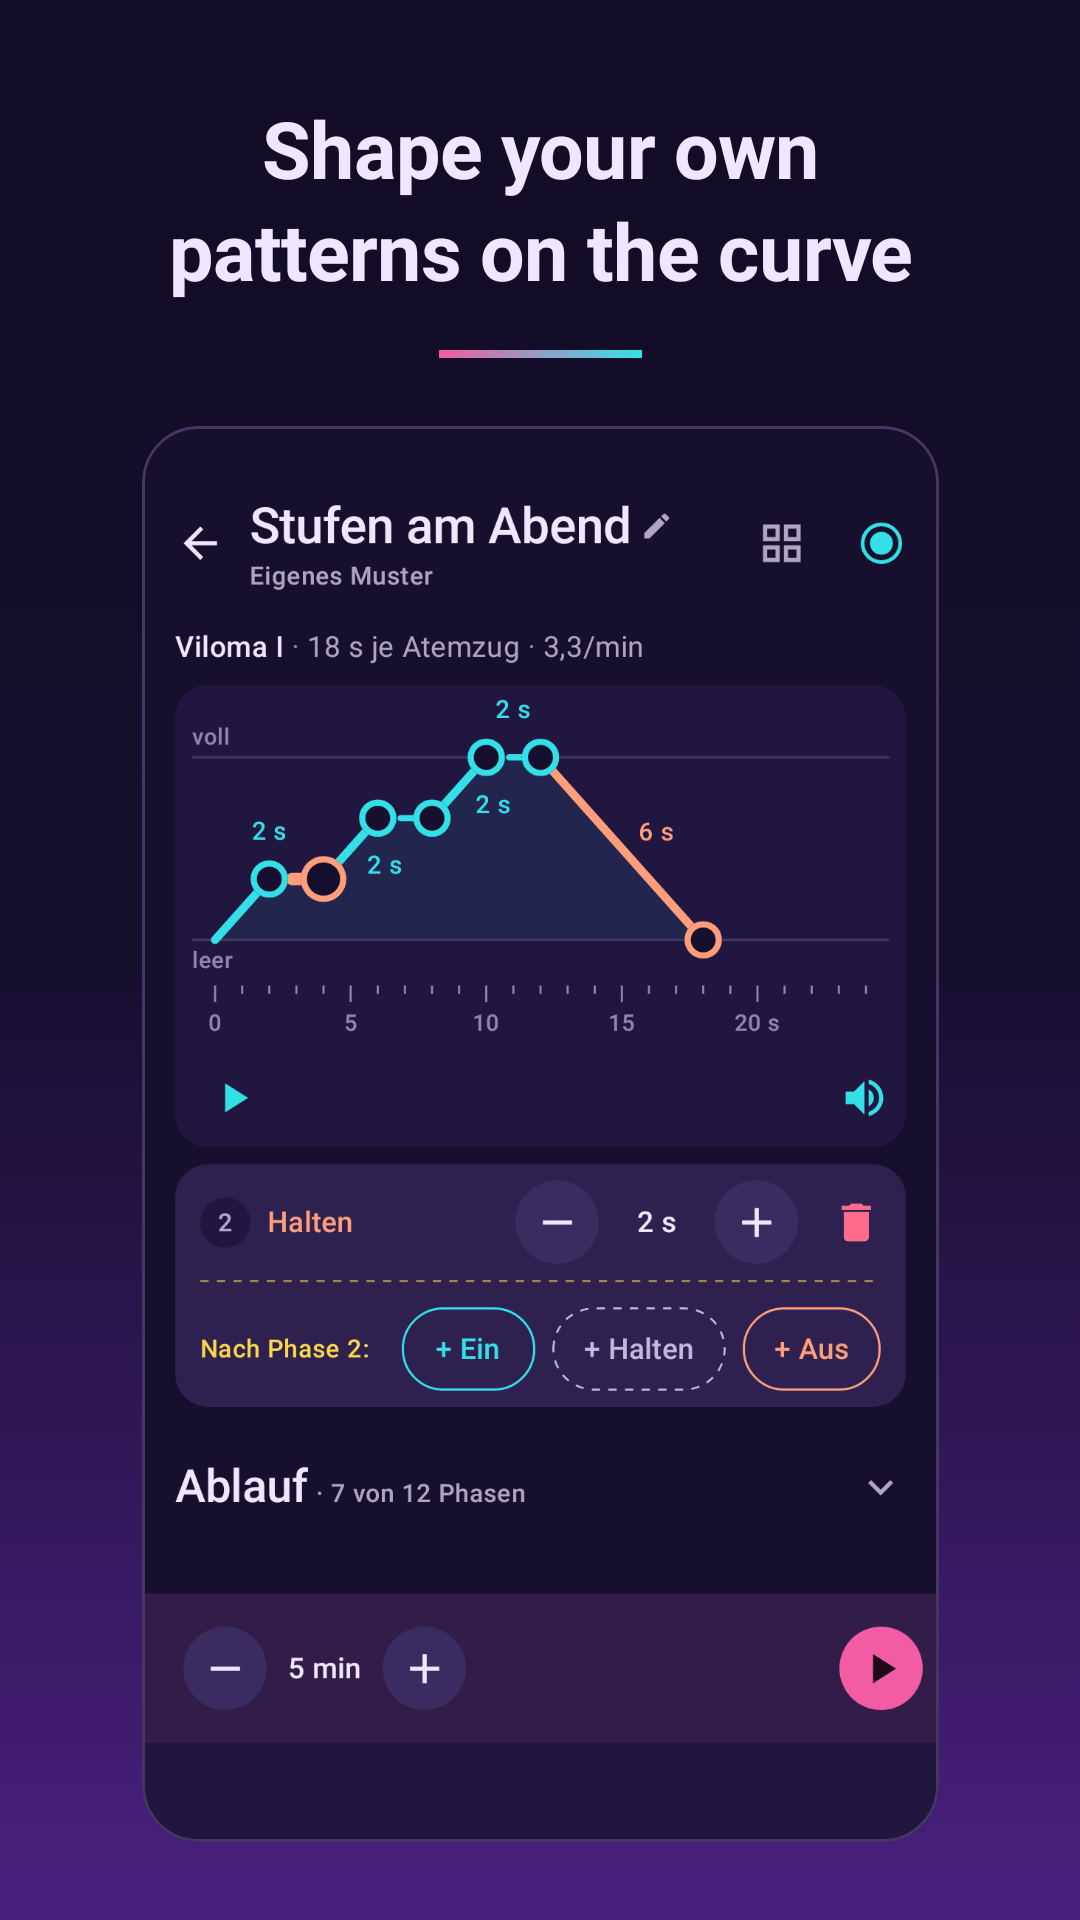
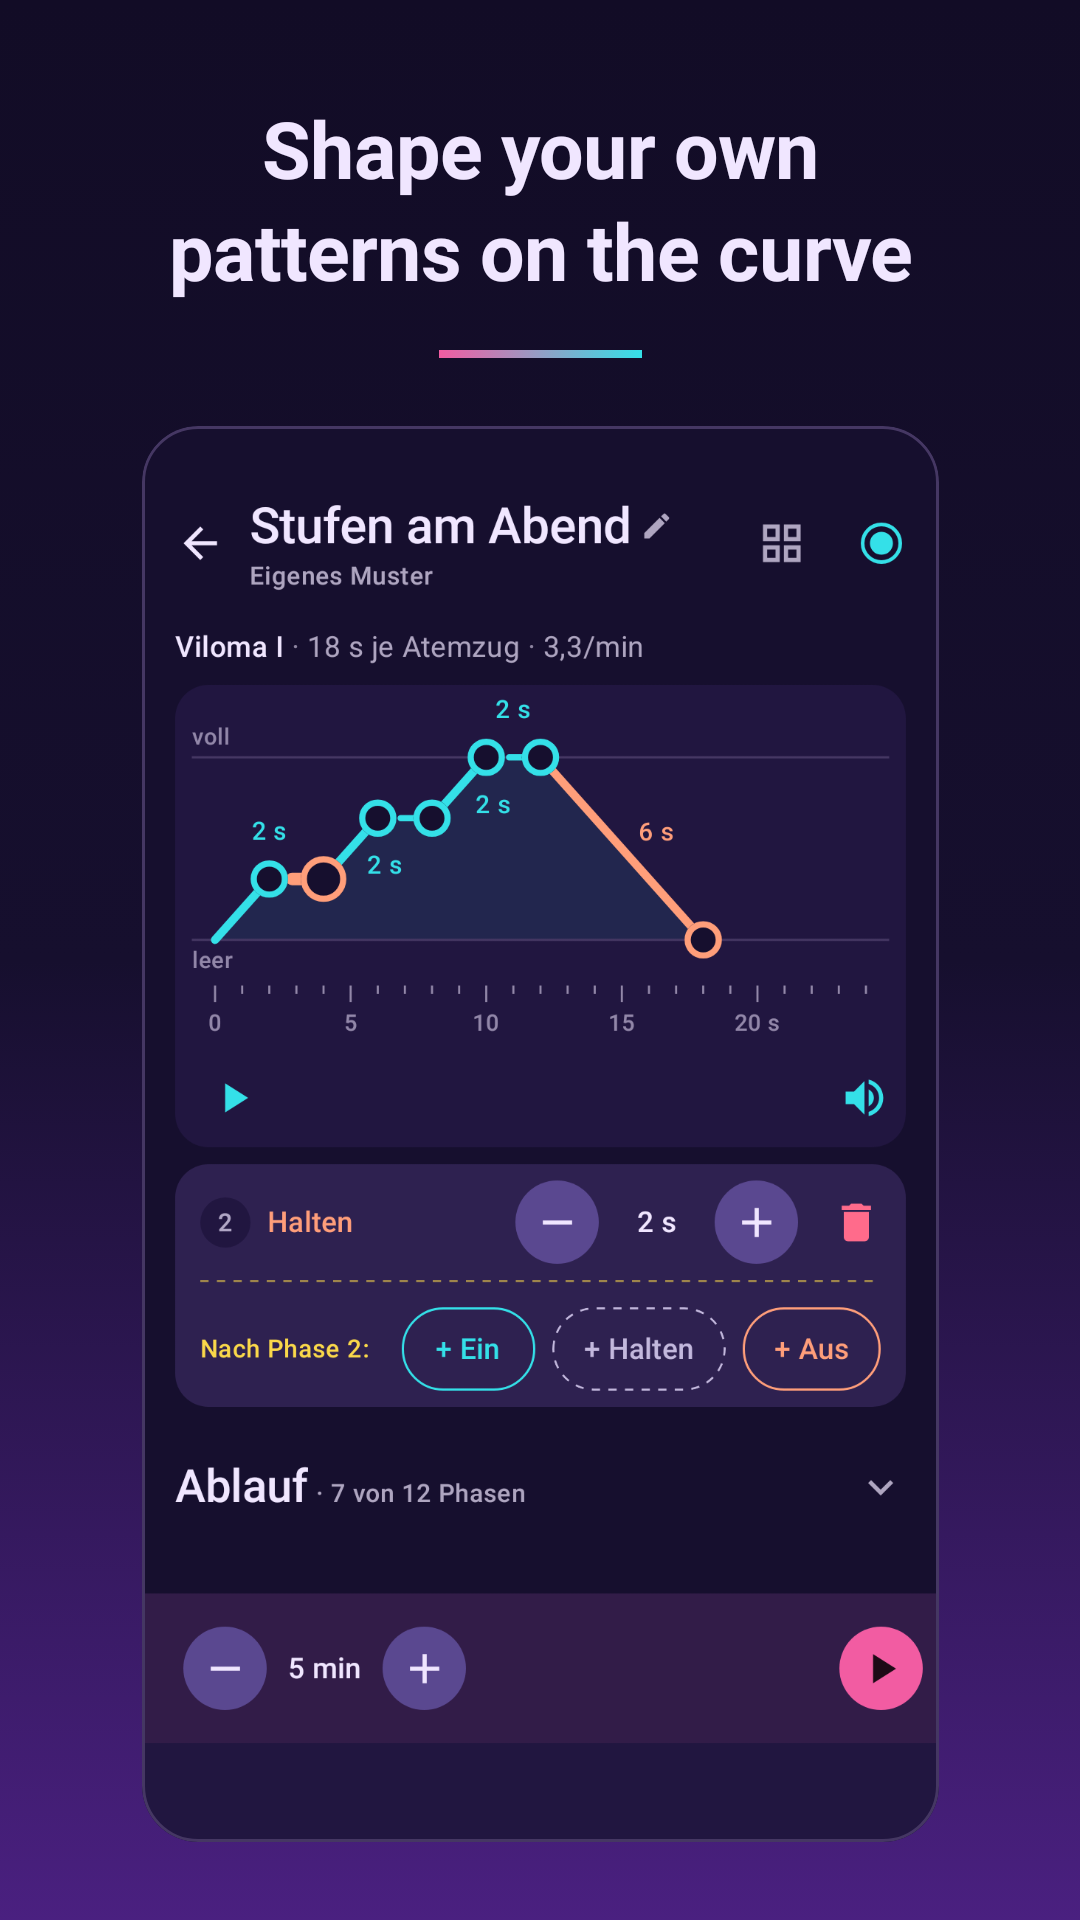
v2.10.0: Muster des Tages mit „Selbst gestalten“, Befinden, Erinnerung, Sicherung, Altlasten abgebaut
Erstes öffentliches Release seit 2.6.0; 2.7 bis 2.9 wurden nicht einzeln
veröffentlicht und gehen hier auf. Neu seitdem: Muster des Tages als
Kopfzeile mit Blatt und „Selbst gestalten“ ab dem Muster von heute, Linie
und „Passende Übungen“ über den Treffern, Befinden danach, lokale
Erinnerung, Sicherung in einer Datei, ruhigere Tabs, Schnellstart.

Dazu der Abbau fast aller Altlasten (Baseline leer), Referenzbilder im CI,
Release-Body-Prüfung, Audio-Fokus nur bei hörbarem Ton mit Wiederholung
nach Anrufen und mehrere Korrekturen aus dem unabhängigen Review.
Store- und README-Bilder zeigen den neuen Stand.

Claude-Session: https://claude.ai/code/session_01B8z44TFz52PCh6ECZFmda6

diff --git a/docs/release-notes/v2.10.0.md b/docs/release-notes/v2.10.0.md
@@ -1,0 +1,15 @@
+Neu in Version 2.10.0 (mit allem aus 2.7 bis 2.9, die nicht einzeln veröffentlicht wurden):
+
+- **Muster des Tages und selbst gestalten:** Im Tab „Atmen“ steht unter den Anlässen „Muster des Tages ›“ mit der Atemkurve, in jedem Zustand an derselben Stelle. Ein Tipp öffnet ein Blatt mit dem Muster von heute (neu generieren, in „Eigene“ speichern) und „Selbst gestalten“: Der Editor startet mit dem Muster von heute, eine andere Vorlage wählst du dort über „Startpunkt“.
+- **Suche klar getrennt:** Eine Linie trennt den Einstieg von der Liste; beim Suchen oder mit einem Anlass heißt sie „Passende Übungen“.
+- **Befinden danach:** Am Ende einer Übung kannst du mit einem Tipp sagen, wie es dir geht: „ruhiger · wie vorher · unruhiger“, nach aktivierenden Übungen „wacher · wie vorher · müder“. Das Wort steht im Logbuch, nur auf deinem Gerät, und wird nie ausgewertet. Abschalten kannst du die Frage in den Einstellungen.
+- **Erinnerung:** Auf Wunsch erinnert die App zu einer Uhrzeit an gewählten Wochentagen an ein paar Atemzüge – lokal, ohne Netz, ohne Druck.
+- **Sicherung:** Muster, Logbuch samt Befinden, „Tut mir gut“ und Einstellungen in einer Datei; beim Einlesen zeigt eine Vorschau, was dazukommt. Dasselbe Tagesmuster von zwei Geräten wird nicht doppelt angelegt.
+- **Eigene:** Verlauf oben, darunter „Eigene Kreationen“ mit „+“ und „Tut mir gut“. „Zuletzt: … ›“ öffnet die zuletzt geübte Übung, die Serie lässt sich ausblenden. Tage ohne Übung sind leere Ringe, geübte Tage kräftiger.
+- **Ruhigere Tabs:** Suchfeld mit Lupe, weiße Abschnittsköpfe, Farbe nur bei Gruppen und Kartenrändern. Die Tab-Leiste hat größere Beschriftungen, der gewählte Tab ist hell hinterlegt.
+- **Ein Zeichen für „zu mir“:** Der Atemkreis ◉ markiert, was dir guttut, und speichert auch Muster in „Eigene“.
+- **Schnellstart:** Ein langer Druck aufs App-Symbol startet die Resonanz-Atmung, die Meditation oder die zuletzt geübte Übung.
+- **Sitzung:** Box-Atmung und andere Muster sagen „Halten voll“ und „Halten leer“. Wim Hof atmet zwischen den Runden aus. Bei einem Anruf oder wenn eine andere App spielt, schweigt der Ton, die Übung läuft weiter; danach kommt er wieder. Andere Musik wird erst mit dem ersten Ton leiser, nicht schon im Countdown.
+- **Barrierefreiheit:** Die Bilanz am Ende wird als „6 Minuten 24 Sekunden“ vorgelesen, der Stimmen-Download wird angesagt, der Fokus bleibt beim Laden, Abbrechen und Löschen an einer sinnvollen Stelle.
+- **Texte:** Die Beschreibungen der Übungen sind kürzer, ohne Sicherheitshinweise oder Studienlage zu verlieren.
+- Programme heißen „zum Nachlesen“, damit klar ist, dass kein getakteter Ablauf folgt.

diff --git a/docs/STORE.md b/docs/STORE.md
@@ -1,6 +1,6 @@
 # Veröffentlichung in Google Play und F-Droid
 
-Stand: 2026-10-24, App-Version 2.9.0 und `main`. Dieses Dokument beschreibt, wie Atemkraft in die Stores kommt: was im Repo vorbereitet sein muss, welche Konten und Formulare nötig sind und in welcher Reihenfolge man vorgeht. Die verbindlichen Regeln (Signatur, Lizenzen, Gesundheitsaussagen) stehen in [SECURITY.md](SECURITY.md), Abschnitte *Build und Signatur*, *Verteilung* und *Gesundheit, Recht und Lizenzen*; die Schritte jedes einzelnen Releases in dessen *Release-Checkliste*. Hier steht der einmalige Weg in die Stores und das, was sich danach je Release ändert.
+Stand: 2026-10-30, App-Version 2.10.0 und `main`. Dieses Dokument beschreibt, wie Atemkraft in die Stores kommt: was im Repo vorbereitet sein muss, welche Konten und Formulare nötig sind und in welcher Reihenfolge man vorgeht. Die verbindlichen Regeln (Signatur, Lizenzen, Gesundheitsaussagen) stehen in [SECURITY.md](SECURITY.md), Abschnitte *Build und Signatur*, *Verteilung* und *Gesundheit, Recht und Lizenzen*; die Schritte jedes einzelnen Releases in dessen *Release-Checkliste*. Hier steht der einmalige Weg in die Stores und das, was sich danach je Release ändert.
 
 Quellen sind die offiziellen Hilfeseiten von Google, F-Droid und IzzyOnDroid (Links im Text, abgerufen am 2026-10-23). Store-Regeln ändern sich; vor jedem Schritt die verlinkte Seite noch einmal lesen. Keine Rechtsberatung.
 
@@ -163,11 +163,11 @@ RepoType: git
 Repo: https://github.com/grenzenloseSchublade/atemkraft.git
 Binaries: https://github.com/grenzenloseSchublade/atemkraft/releases/download/v%v/atemkraft-v%v.apk
 
-# Vor dem Einreichen auf das dann neueste öffentliche Tag setzen (Stand: Kandidat 2.9.0).
+# Vor dem Einreichen auf das dann neueste öffentliche Tag setzen (Stand: Kandidat 2.10.0).
 Builds:
-  - versionName: 2.9.0
-    versionCode: 42
-    commit: v2.9.0
+  - versionName: 2.10.0
+    versionCode: 43
+    commit: v2.10.0
     subdir: app
     gradle:
       - yes
@@ -178,8 +178,8 @@ AllowedAPKSigningKeys: 75022defe65aa24e223f3e79880f09f423456757002ff0b33ba2ae29b
 
 AutoUpdateMode: Version
 UpdateCheckMode: Tags
-CurrentVersion: 2.9.0
-CurrentVersionCode: 42
+CurrentVersion: 2.10.0
+CurrentVersionCode: 43
 ```
 
 Ob *NonFreeNet* für einen optionalen Download von GitHub nötig ist, entscheidet der Prüfer; die TTS-App SherpaTTS trägt es für ihren Download von Hugging Face.

diff --git a/THIRD_PARTY_LICENSES.md b/THIRD_PARTY_LICENSES.md
@@ -2,7 +2,7 @@
 
 Was in der App steckt, was sie auf Wunsch lädt und unter welchen Bedingungen. Gegenstück in der App: *Einstellungen → Über Atemkraft → Lizenzen*.
 
-- **Stand:** 2026-10-24, gilt für App-Version 2.0.2 bis 2.9.0 (`versionCode` 31 bis 40; die Abhängigkeiten sind dazwischen gleich) und `main`. Seit 1.6.0 sind die Laufzeit-Abhängigkeiten aktualisiert (§ 1); das sherpa-onnx-AAR ist dieselbe Datei wie bisher, kommt aber seit 2026-10-24 von JitPack statt aus `app/libs/` (§ 2).
+- **Stand:** 2026-10-30, gilt für App-Version 2.0.2 bis 2.10.0 (`versionCode` 31 bis 40; die Abhängigkeiten sind dazwischen gleich) und `main`. Seit 1.6.0 sind die Laufzeit-Abhängigkeiten aktualisiert (§ 1); das sherpa-onnx-AAR ist dieselbe Datei wie bisher, kommt aber seit 2026-10-24 von JitPack statt aus `app/libs/` (§ 2).
 - **Belege:** Lizenzangaben aus Maven-POMs, `LICENSE`/`COPYING`-Dateien der Upstream-Repos am genannten Tag oder Commit und den Modellkarten der Stimmen. Die Laufzeit-Abhängigkeiten sind am 2026-10-23 mit `./gradlew :app:dependencies --configuration releaseRuntimeClasspath` am Stand 2.0.2 neu erhoben, ihre Lizenzen aus den POMs und die NOTICE-Texte aus den JARs bzw. den Upstream-Repos am Tag der jeweiligen Version übernommen. Der Inhalt der APK ist mit `unzip -l` an Release-Builds von 2.0.2 und 2.5.0 geprüft (2.5.0 am 2026-10-24, vor und nach dem Wechsel auf JitPack; Unterschied nur die nicht mehr mitgelieferte C- und C++-API, § 2), die gebündelten Bibliotheken über die Build-Skripte von sherpa-onnx v1.13.6 (samt der von dort geladenen Bibliotheken) und Zeichenketten in `libsherpa-onnx-jni.so` und `libsherpa-onnx-c-api.so`.
 - **Keine Rechtsberatung.** Die Einordnungen unten geben Lizenztexte und veröffentlichte Auffassungen wieder.
 

diff --git a/docs/STYLEGUIDE.md b/docs/STYLEGUIDE.md
@@ -1,6 +1,6 @@
 # Atemkraft – Styleguide
 
-Normativer Design-, Text- und Code-Leitfaden für Maintainer und Claude: Jede Regel nennt ihre Prüfung. Stand: v2.9.0 und `main`, 2026-10-24. Sicherheit, Datenschutz, Build und Release regelt [SECURITY.md](SECURITY.md); Commit, Push, Release und Arbeitsweise [PROCESS.md](PROCESS.md); die Kurzfassung für Agenten steht in [CLAUDE.md](../CLAUDE.md). Wie ein Feature genau gebaut ist, steht in [docs/spec/](spec/); warum etwas so entschieden wurde, in [DECISIONS.md](DECISIONS.md).
+Normativer Design-, Text- und Code-Leitfaden für Maintainer und Claude: Jede Regel nennt ihre Prüfung. Stand: v2.10.0 und `main`, 2026-10-24. Sicherheit, Datenschutz, Build und Release regelt [SECURITY.md](SECURITY.md); Commit, Push, Release und Arbeitsweise [PROCESS.md](PROCESS.md); die Kurzfassung für Agenten steht in [CLAUDE.md](../CLAUDE.md). Wie ein Feature genau gebaut ist, steht in [docs/spec/](spec/); warum etwas so entschieden wurde, in [DECISIONS.md](DECISIONS.md).
 
 **Inhalt:** [0 Geltung](#geltung) · [1 Leitplanken](#leitplanken) · [2 Farbe](#farbe) · [3 Typografie](#typografie) · [4 Layout](#layout) (4.5 [Anatomie der Bausteine](#anatomie)) · [5 Komponenten](#komponenten) · [6 Muster](#muster) · [7 Icons](#icons) · [8 Bewegung](#bewegung) · [9 Audio und Haptik](#audio) · [10 Barrierefreiheit](#a11y) · [11 Text und Ton](#text) · [12 Code](#code) · [13 Automatische Prüfung](#automatische-pruefung) · [14 Backlog](#backlog) · [Quellen](#quellen)
 

diff --git a/docs/SECURITY.md b/docs/SECURITY.md
@@ -2,7 +2,7 @@
 
 Sicherheits-, Datenschutz-, Lieferketten- und Release-Regeln für Atemkraft (`app.atemkraft`). Zielgruppe: Maintainer und Claude. Gegenstück für Design, Text und Code: [STYLEGUIDE.md](STYLEGUIDE.md).
 
-- **Stand:** 2026-10-24 (v2.9.0 und `main`; statische Sicherheits-Checks seit 2026-10-19 aktiv, `verify-apk` und der Tag-Nachbau `release-verify` seit 2026-10-24).
+- **Stand:** 2026-10-30 (v2.10.0 und `main`; statische Sicherheits-Checks seit 2026-10-19 aktiv, `verify-apk` und der Tag-Nachbau `release-verify` seit 2026-10-24).
 - **Schlüsselwörter:** MUSS / DARF NICHT / SOLL im Sinne von RFC 2119.
 - **Regelformat** (gemeinsam mit STYLEGUIDE): `ID | Stufe | Regel | Warum | Prüfung`. `auto:` nennt Werkzeug und Check (siehe [Automatische Prüfung](#automatische-pruefung)), `manuell:` nennt Review oder Checklisten-Schritt. In der Check-Tabelle stehen die vollen Regel-IDs.
 - **Grundlage:** OWASP MASVS v2.1.0 (L1 + Privacy), Android Security Checklist, Google-Play-Richtlinien, F-Droid Inclusion Policy.

diff --git a/docs/PRIVACY.md b/docs/PRIVACY.md
@@ -2,7 +2,7 @@
 
 Für die Android-App Atemkraft (`app.atemkraft`), gleich über welche Bezugsquelle du sie installierst: GitHub-Releases dieses Repos, Google Play oder F-Droid (siehe [Bezugsquellen](#bezugsquellen)).
 
-- **Stand:** 2026-10-24. Gilt ab Version 2.6.0, geprüft gegen Version 2.9.0 und den Quellcode auf `main` an diesem Tag. Wie sich frühere Versionen unterscheiden, steht im [Anhang](#fruehere-versionen).
+- **Stand:** 2026-10-30. Gilt ab Version 2.6.0, geprüft gegen Version 2.10.0 und den Quellcode auf `main` an diesem Tag. Wie sich frühere Versionen unterscheiden, steht im [Anhang](#fruehere-versionen).
 - **Anbieter:** grenzenloseSchublade, Maintainer von [github.com/grenzenloseSchublade/atemkraft](https://github.com/grenzenloseSchublade/atemkraft). Kontakt siehe [unten](#kontakt).
 
 ## Kurzfassung
